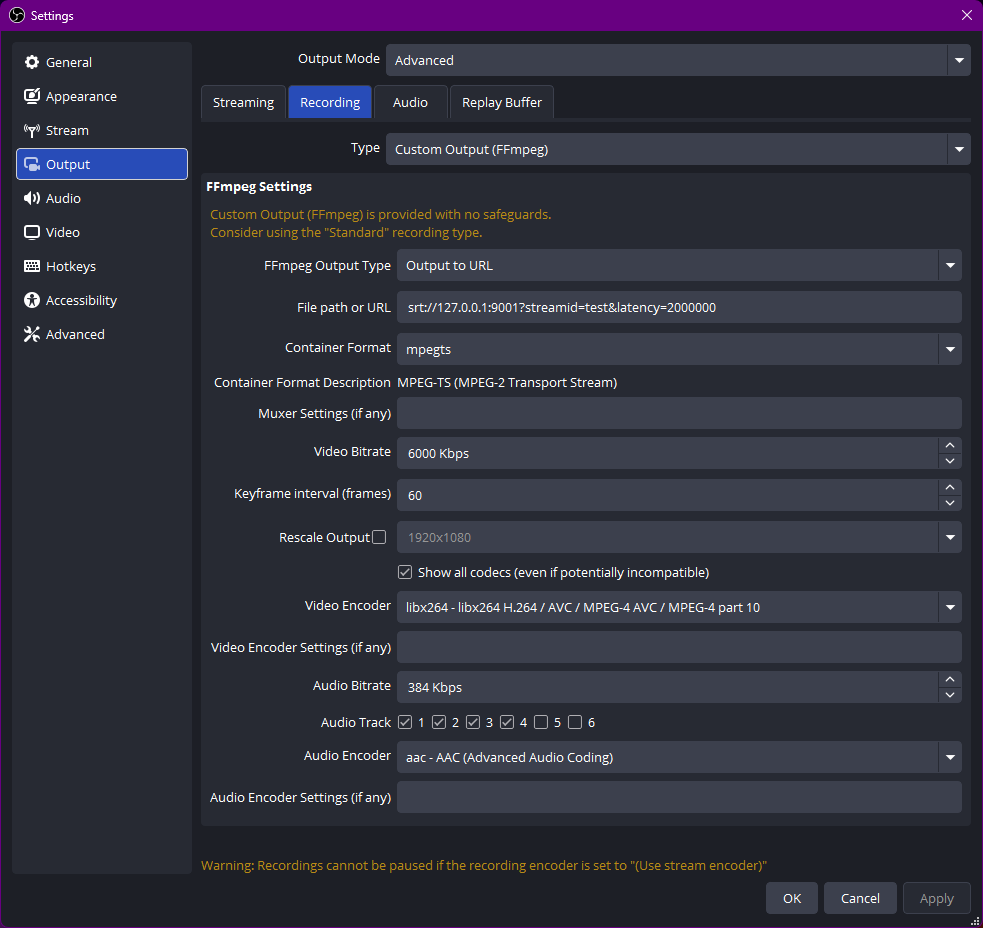
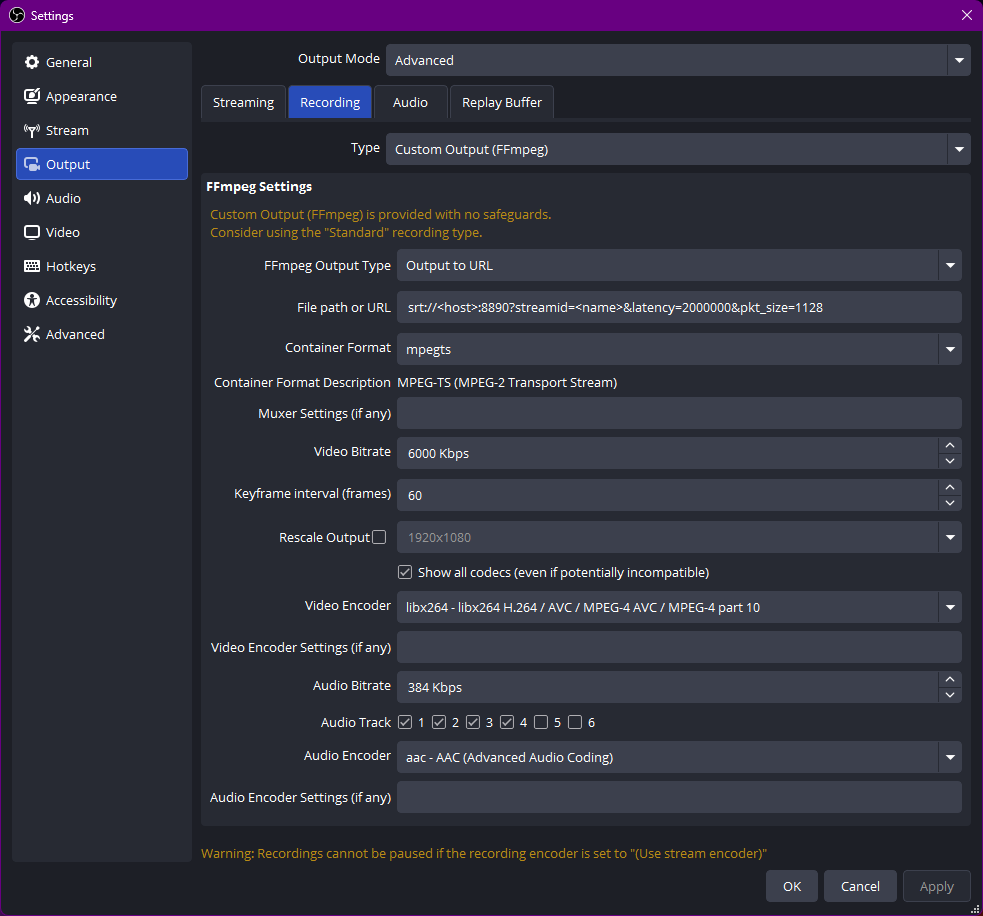
OBS guides: re-capture both Recording tabs with the correct port and the full URL
Both screenshots showed srt://127.0.0.1:9001 with a hardcoded loopback
address, a literal 'test' stream name, and no pkt_size, because they were
taken against a local listener before the port settled and before the
packet-size finding. Someone copying the picture rather than the table got
the wrong port.

Both now show srt://<host>:8890?streamid=<name>&latency=2000000&pkt_size=1128,
with placeholders that cannot be pasted verbatim by mistake, so picture and
table finally agree.

Captions rewritten accordingly: the sentence explaining that the capture
predated pkt_size is now false and is gone. The macOS shot is an 8K
configuration at 20000 Kbps, so its caption says to set bitrate against your
own resolution rather than copying the number.

diff --git a/docs/obs-macos.md b/docs/obs-macos.md
@@ -96,9 +96,9 @@ The join downstream is strictly positional - track 1 becomes channels 1-4, track
 | Video Encoder | any H.264 encoder; keyframe interval 2 s, CFR |
 | Bitrates | see [Bitrate](../README.md#bitrate) - audio 384 kbit/s per track, video against your uplink |
 
-<div align="center"><img src="images/obs-macos/08_OBS-recording-streaming-settings.png" width="57%" alt="OBS Settings, Output, Recording tab: Type is Custom Output (FFmpeg), FFmpeg Output Type is Output to URL, an srt:// URL, Container Format mpegts, Video Bitrate 6000 Kbps, Keyframe interval 60, Show all codecs ticked, Video Encoder h264_videotoolbox, Audio Bitrate 384 Kbps, Audio Tracks 1 to 4 ticked, Audio Encoder aac."></div>
+<div align="center"><img src="images/obs-macos/08_OBS-recording-streaming-settings.png" width="57%" alt="OBS Settings, Output, Recording tab on macOS: Type is Custom Output (FFmpeg), FFmpeg Output Type is Output to URL, the URL srt://<host>:8890?streamid=<name>&latency=2000000&pkt_size=1128, Container Format mpegts, Video Bitrate 20000 Kbps, Keyframe interval 60, Show all codecs ticked, Video Encoder h264_videotoolbox, Audio Bitrate 384 Kbps, Audio Tracks 1 to 4 ticked, Audio Encoder aac."></div>
 
-<p align="center"><em>Captured against a local test listener; point the host and port at your own box. The URL form is what matters - note <code>&amp;latency=2000000</code>, since SRT's default of about 120 ms survives loopback and little else. The capture also predates the packet-size finding, so its URL has no <code>&amp;pkt_size=1128</code>; the table above does, for the reason in <a href="#5-point-obs-at-the-box">the tunnel trap below</a>.</em></p>
+<p align="center"><em>The URL carries both parameters that matter: <code>&amp;latency=2000000</code>, since SRT's default of about 120 ms survives loopback and little else, and <code>&amp;pkt_size=1128</code>, for the reason in <a href="#5-point-obs-at-the-box">the tunnel trap below</a>. Substitute your own host and stream name for the two placeholders. The 20000 Kbps here is for 8K; 6000 suits 4096x2048, so set it against your own resolution and uplink rather than copying the figure.</em></p>
 
 The screenshot shows **`h264_videotoolbox`**, Apple's hardware encoder, which keeps the work off the CPU. `libx264` is the software fallback and is present on every machine. Whichever you choose, keep the keyframe interval at 60 frames - 2 s at 30 fps - because that is what the segment duration downstream is aligned to.
 

diff --git a/docs/obs-windows.md b/docs/obs-windows.md
@@ -128,9 +128,9 @@ The join downstream is strictly positional - track 1 becomes channels 1-4, track
 | Video Encoder | any H.264 encoder; keyframe interval 2 s, CFR |
 | Bitrates | see [Bitrate](../README.md#bitrate) - audio 384 kbit/s per track, video against your uplink |
 
-<div align="center"><img src="images/obs-windows/13_OBS-recording-settings.png" width="57%" alt="OBS Settings, Output, Recording tab on Windows: Custom Output (FFmpeg), Output to URL with an srt URL carrying latency, mpegts, 6000 Kbps, keyframe interval 60, libx264, 384 Kbps audio, tracks 1 to 4, aac."></div>
+<div align="center"><img src="images/obs-windows/13_OBS-recording-settings.png" width="57%" alt="OBS Settings, Output, Recording tab on Windows: Custom Output (FFmpeg), Output to URL with the URL srt://<host>:8890?streamid=<name>&latency=2000000&pkt_size=1128, mpegts, 6000 Kbps, keyframe interval 60, libx264, 384 Kbps audio, tracks 1 to 4, aac."></div>
 
-<p align="center"><em>Captured against a local test listener; point the host and port at your own box. The URL form is what matters - note <code>&amp;latency=2000000</code>, since SRT's default of about 120 ms survives loopback and little else. The capture also predates the packet-size finding, so its URL has no <code>&amp;pkt_size=1128</code>; the table above does, for the reason in <a href="#5-point-obs-at-the-box">the tunnel trap below</a>.</em></p>
+<p align="center"><em>The URL carries both parameters that matter: <code>&amp;latency=2000000</code>, since SRT's default of about 120 ms survives loopback and little else, and <code>&amp;pkt_size=1128</code>, for the reason in <a href="#5-point-obs-at-the-box">the tunnel trap below</a>. Substitute your own host and stream name for the two placeholders.</em></p>
 
 The screenshot shows **`libx264`**, the software encoder, which is present on every machine. With an NVIDIA card, `h264_nvenc` moves the work onto the GPU and is worth picking if you have one. AMD and Intel have equivalents in the same dropdown (`h264_amf`, `h264_qsv`) when the hardware and drivers are there, though neither was tested here. Whichever you choose, keep the keyframe interval at 60 frames - 2 s at 30 fps - because that is what the segment duration downstream is aligned to.
 
